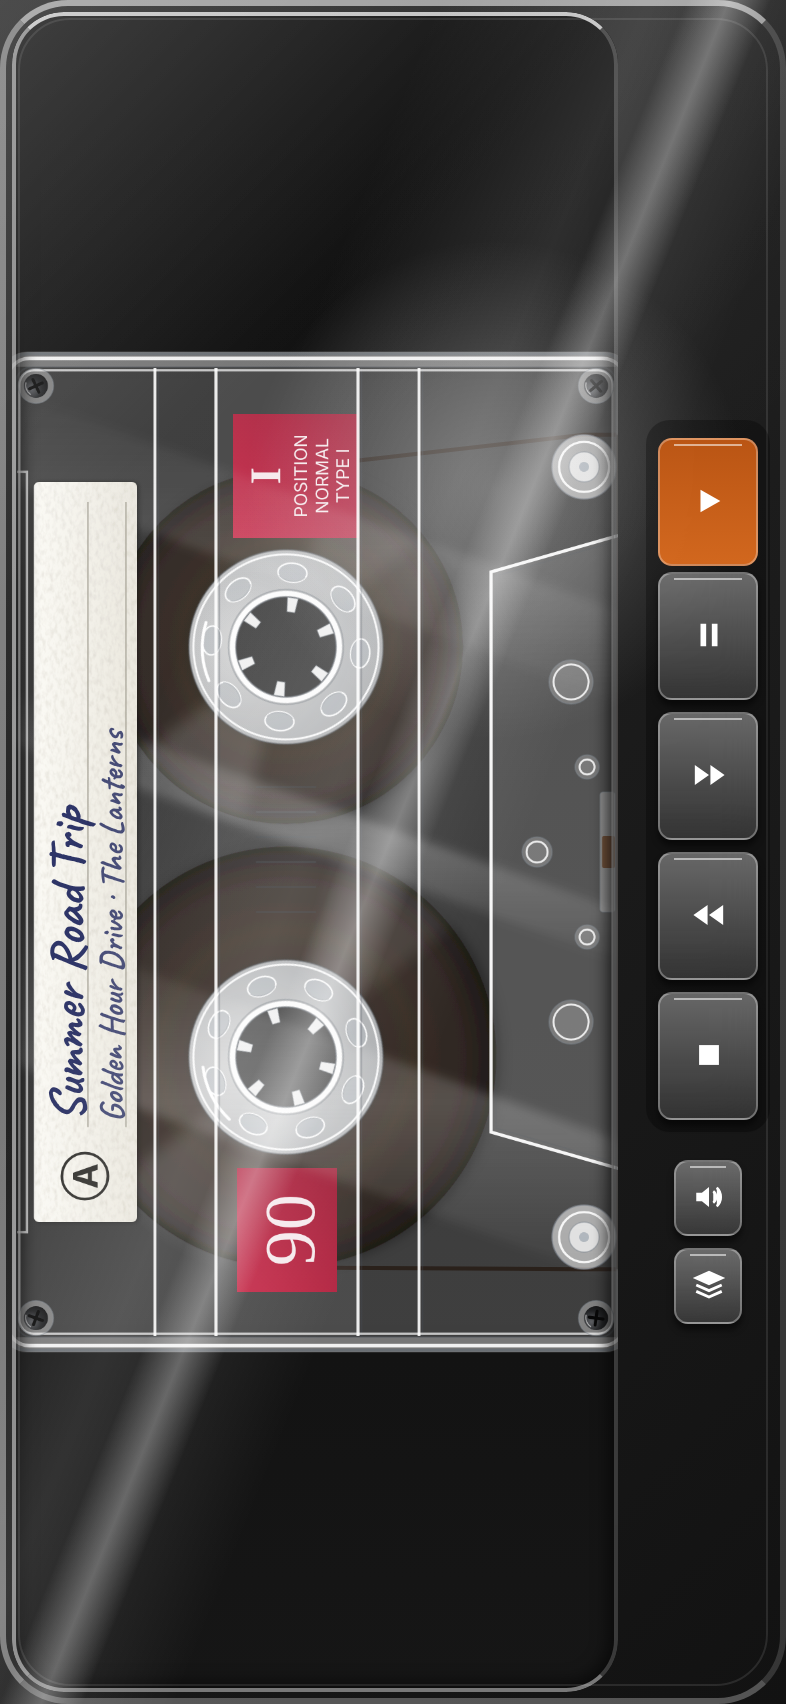
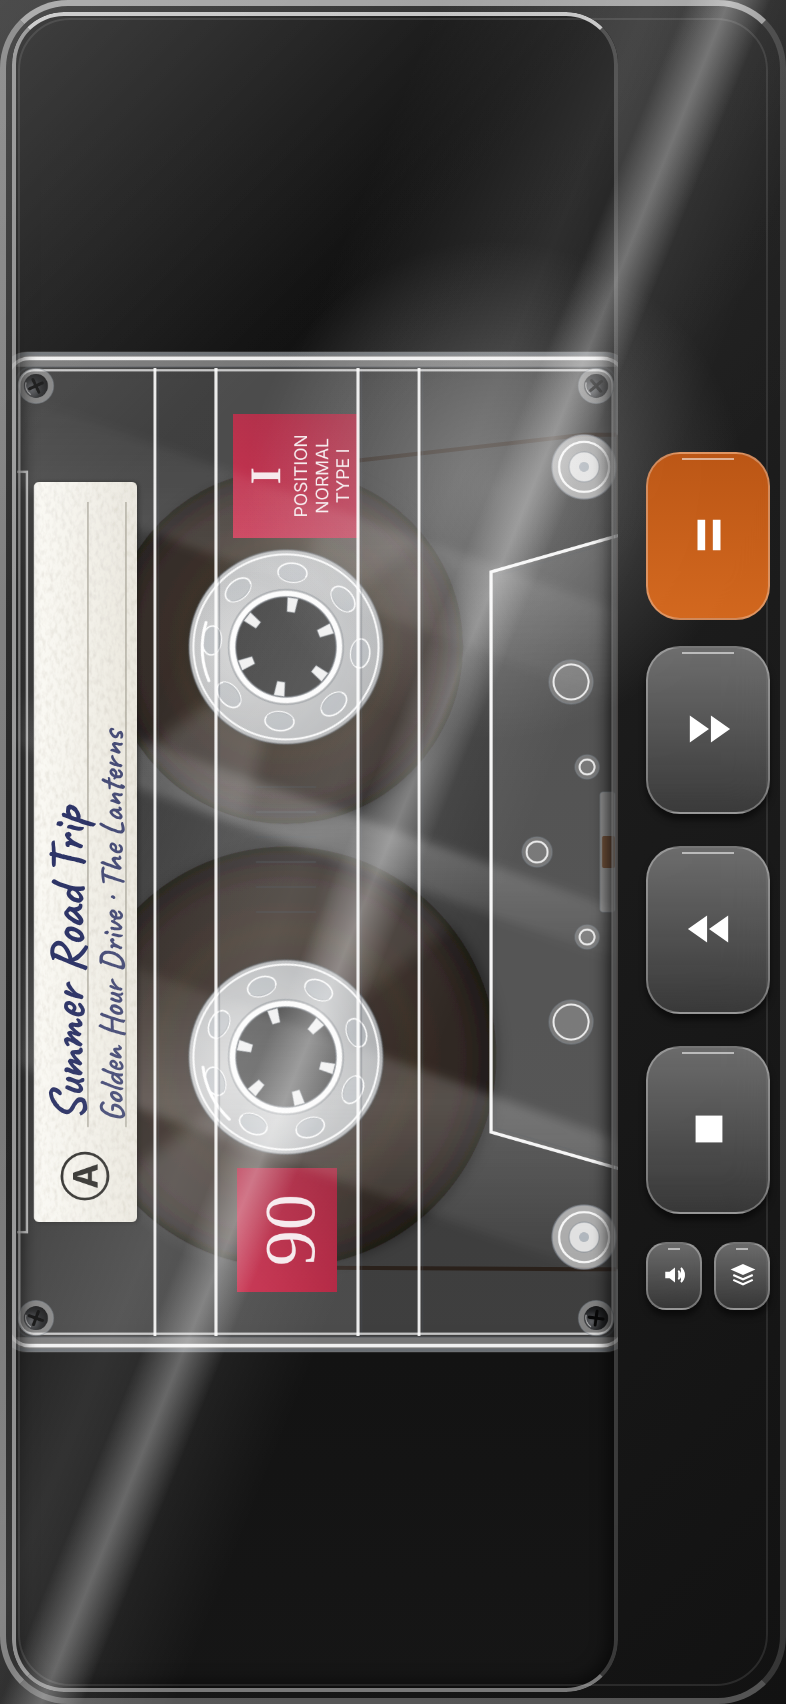
Use four large keys in the Duo's rail
Keys are 66 by 84 points, centred 48 points in from the edge, starting
180 points down, sized from a Duo screenshot. Play and pause share one
key; sound effects and the shelf are two small keys below.

Claude-Session: https://claude.ai/code/session_015CNmSEpanpmujmbPK8yXHv

Changed region(s): [[0.8244, 0.2488, 1.0, 0.7776]]

diff --git a/TapeDeck/DeckView.swift b/TapeDeck/DeckView.swift
@@ -16,13 +16,16 @@ struct DeckView: View {
 
     /// Width of the key column on phones that have no side rail.
     private let stripWidth: CGFloat = 78
-    /// The key column on the Duo is 48 points wide inside the 84 point rail:
-    /// 24 points from the screen edge and 12 from the content.
-    private let railKeyWidth: CGFloat = 48
-    private let railOuterMargin: CGFloat = 24
+    /// Keys in the Duo's rail are 66 points wide, centred 48 points in from
+    /// the screen edge like the system's own status pill, and up to 84 tall.
+    private let railKeyWidth: CGFloat = 66
+    private let railOuterMargin: CGFloat = 15
+    private let bigKeyHeight: CGFloat = 84
+    private let keyGap: CGFloat = 16
     /// Height kept clear at the top of the rail for the camera, clock and
-    /// status icons. Not a published figure: tune it on a real Duo.
-    private let railStatusHeight: CGFloat = 176
+    /// status icons. Measured from a Duo screenshot, where the status pill
+    /// ends about 154 points down; not a published figure.
+    private let railStatusHeight: CGFloat = 180
 
     var body: some View {
         GeometryReader { geo in
@@ -155,73 +158,63 @@ struct DeckView: View {
 
     // MARK: Keys
 
-    /// The five transport keys, then the two small ones: sound effects and
-    /// the tape shelf.
-    private func keys(height: CGFloat, bare: Bool) -> some View {
+    /// Four big transport keys (play and pause share one), then two small
+    /// ones side by side: sound effects and the tape shelf.
+    private func keys(height: CGFloat) -> some View {
         VStack(spacing: 14) {
-            TransportKeys(vertical: true, keyHeight: height, bare: bare, onEject: openShelf)
-            VStack(spacing: 6) {
+            TransportKeys(vertical: true, keyHeight: height, bare: true, big: true,
+                          spacing: keyGap, onEject: openShelf)
+            HStack(spacing: 6) {
                 TapeKey(symbol: model.soundEffectsOn ? "speaker.wave.2.fill" : "speaker.slash.fill",
                         label: model.soundEffectsOn ? "Tape sound effects on" : "Tape sound effects off",
-                        height: smallKeyHeight, showsLabel: false,
+                        height: smallKeyHeight, showsLabel: false, corner: 10, symbolSize: 13,
                         onDown: {
                             Haptics.keyDown()
                             model.soundEffectsOn.toggle()
                         })
                 TapeKey(symbol: "square.stack.3d.up.fill", label: "Tape shelf",
-                        height: smallKeyHeight, showsLabel: false,
+                        height: smallKeyHeight, showsLabel: false, corner: 10, symbolSize: 13,
                         onDown: {
                             Haptics.keyDown()
                             openShelf()
                         })
             }
-            .padding(.horizontal, bare ? 0 : 6)
         }
     }
 
-    private let smallKeyHeight: CGFloat = 38
-    /// Room the two small keys and the gaps around them take in the column.
-    private var smallKeysRoom: CGFloat { 14 + 2 * smallKeyHeight + 6 }
+    private let smallKeyHeight: CGFloat = 34
+    /// Room the small keys and the gap above them take in the column.
+    private var smallKeysRoom: CGFloat { 14 + smallKeyHeight }
 
+    private func keyHeight(room: CGFloat) -> CGFloat {
+        min(bigKeyHeight, max(40, (room - smallKeysRoom - 3 * keyGap) / 4))
+    }
 
-    /// The column of keys. In the Duo's rail it is a slim smoked bar that
-    /// starts below the camera and clock; elsewhere it is a frosted strip.
+    /// The column of keys. In the Duo's rail it starts below the camera and
+    /// clock; on other phones it is a strip inside the safe area.
     @ViewBuilder
     private func keyColumn(insets: EdgeInsets, rail: Bool, leading: Bool) -> some View {
         if rail {
             let width = max(insets.leading, insets.trailing)
             let inner = max(0, width - railKeyWidth - railOuterMargin)
             GeometryReader { geo in
-                let room = geo.size.height - railStatusHeight - insets.bottom - 12 - smallKeysRoom
-                let keyHeight = min(64, max(30, (room - 4 * 6) / 5))
+                let room = geo.size.height - railStatusHeight - insets.bottom - 12
                 VStack(spacing: 0) {
                     Color.clear.frame(height: railStatusHeight)
-                    keys(height: keyHeight, bare: true)
+                    keys(height: keyHeight(room: room))
                     Spacer(minLength: 0)
                 }
                 .frame(width: railKeyWidth)
-                // Smoked bar behind the camera, the clock and the keys
-                .background(
-                    RoundedRectangle(cornerRadius: 22)
-                        .fill(Color.black.opacity(0.55))
-                        .background(.ultraThinMaterial, in: RoundedRectangle(cornerRadius: 22))
-                        .overlay(RoundedRectangle(cornerRadius: 22)
-                            .strokeBorder(Color.white.opacity(0.18), lineWidth: 1))
-                        .padding(.horizontal, -6)
-                        .padding(.top, 8)
-                        .padding(.bottom, insets.bottom + 4)
-                )
                 .padding(.leading, leading ? railOuterMargin : inner)
                 .padding(.trailing, leading ? inner : railOuterMargin)
             }
             .frame(width: width)
         } else {
             GeometryReader { geo in
-                let room = geo.size.height - insets.top - insets.bottom - 24 - 12 - smallKeysRoom
-                let keyHeight = min(64, max(30, (room - 4 * 6) / 5))
+                let room = geo.size.height - insets.top - insets.bottom - 24
                 VStack(spacing: 0) {
                     Spacer(minLength: 0)
-                    keys(height: keyHeight, bare: false)
+                    keys(height: keyHeight(room: room))
                     Spacer(minLength: 0)
                 }
                 .padding(.top, insets.top + 12)
@@ -243,25 +236,41 @@ struct TransportKeys: View {
     var keyHeight: CGFloat = 62
     /// Without the tray behind the keys, for places that supply their own.
     var bare = false
+    /// Four large rounded keys, with play and pause sharing one.
+    var big = false
+    var spacing: CGFloat = 6
     var onEject: () -> Void = {}
 
     var body: some View {
-        let layout = vertical ? AnyLayout(VStackLayout(spacing: 6)) : AnyLayout(HStackLayout(spacing: 6))
+        let layout = vertical ? AnyLayout(VStackLayout(spacing: spacing)) : AnyLayout(HStackLayout(spacing: spacing))
+        let corner: CGFloat = big ? 17 : 7
+        let symbol: CGFloat = big ? 23 : 17
+        let labels = !vertical && !big
         layout {
-            TapeKey(symbol: "play.fill", label: "PLAY", accent: true, latched: model.motion == .playing,
-                    height: keyHeight, showsLabel: !vertical, onDown: { model.playKey() })
-            TapeKey(symbol: "pause.fill", label: "PAUSE", latched: model.motion == .paused,
-                    height: keyHeight, showsLabel: !vertical, onDown: { model.pauseKey() })
+            if big {
+                // Down and lit while the tape plays; press again to pause.
+                TapeKey(symbol: model.motion == .playing ? "pause.fill" : "play.fill",
+                        label: model.motion == .playing ? "Pause" : "Play",
+                        accent: true, latched: model.motion == .playing,
+                        height: keyHeight, showsLabel: false, corner: corner, symbolSize: symbol,
+                        onDown: { model.playPauseKey() })
+            } else {
+                TapeKey(symbol: "play.fill", label: "PLAY", accent: true, latched: model.motion == .playing,
+                        height: keyHeight, showsLabel: labels, onDown: { model.playKey() })
+                TapeKey(symbol: "pause.fill", label: "PAUSE", latched: model.motion == .paused,
+                        height: keyHeight, showsLabel: labels, onDown: { model.pauseKey() })
+            }
             TapeKey(symbol: "forward.fill", label: "FF", latched: model.motion == .fastForward,
-                    height: keyHeight, showsLabel: !vertical,
+                    height: keyHeight, showsLabel: labels, corner: corner, symbolSize: symbol,
                     onDown: { model.seekKeyDown(forward: true) },
                     onUp: { model.seekKeyUp(forward: true) })
             TapeKey(symbol: "backward.fill", label: "REW", latched: model.motion == .rewind,
-                    height: keyHeight, showsLabel: !vertical,
+                    height: keyHeight, showsLabel: labels, corner: corner, symbolSize: symbol,
                     onDown: { model.seekKeyDown(forward: false) },
                     onUp: { model.seekKeyUp(forward: false) })
             TapeKey(symbol: "eject.fill", label: "STOP/EJECT",
-                    height: keyHeight, showsLabel: !vertical, onDown: { if model.stopKey() { onEject() } })
+                    height: keyHeight, showsLabel: labels, corner: corner, symbolSize: symbol,
+                    onDown: { if model.stopKey() { onEject() } })
         }
         .padding(bare ? 0 : 6)
         .background(RoundedRectangle(cornerRadius: 12).fill(Color.black.opacity(bare ? 0 : 0.28)))
@@ -282,6 +291,8 @@ struct TapeKey: View {
     var latched = false
     var height: CGFloat = 62
     var showsLabel = true
+    var corner: CGFloat = 7
+    var symbolSize: CGFloat = 17
     var onDown: () -> Void = {}
     var onUp: () -> Void = {}
 
@@ -290,7 +301,7 @@ struct TapeKey: View {
     var body: some View {
         let down = pressed || latched
         VStack(spacing: 4) {
-            Image(systemName: symbol).font(.system(size: 17, weight: .bold))
+            Image(systemName: symbol).font(.system(size: symbolSize, weight: .bold))
             if showsLabel, height >= 50 {
                 Text(label).font(.system(size: 7, weight: .heavy)).lineLimit(1).minimumScaleFactor(0.6)
             }
@@ -300,17 +311,17 @@ struct TapeKey: View {
         .frame(maxWidth: .infinity)
         .frame(height: height)
         .background(
-            RoundedRectangle(cornerRadius: 7)
+            RoundedRectangle(cornerRadius: corner)
                 .fill(LinearGradient(colors: keyColors(down: down), startPoint: .top, endPoint: .bottom))
         )
-        .background(.ultraThinMaterial, in: RoundedRectangle(cornerRadius: 7))
-        .overlay(RoundedRectangle(cornerRadius: 7).strokeBorder(Color.white.opacity(0.30), lineWidth: 0.75))
+        .background(.ultraThinMaterial, in: RoundedRectangle(cornerRadius: corner))
+        .overlay(RoundedRectangle(cornerRadius: corner).strokeBorder(Color.white.opacity(0.30), lineWidth: 0.75))
         // Light catching the moulded top edge
         .overlay(alignment: .top) {
             Capsule()
                 .fill(Color.white.opacity(0.55))
                 .frame(height: 1)
-                .padding(.horizontal, 7)
+                .padding(.horizontal, corner)
                 .padding(.top, 2)
         }
         .offset(y: down ? 3 : 0)

diff --git a/TapeDeck/PlayerModel.swift b/TapeDeck/PlayerModel.swift
@@ -243,6 +243,15 @@ final class PlayerModel: ObservableObject {
         run { try await self.player.play() }
     }
 
+    /// One key for both: pauses while playing, plays otherwise.
+    func playPauseKey() {
+        if motion == .playing {
+            pauseKey()
+        } else {
+            playKey()
+        }
+    }
+
     func pauseKey() {
         pressFeedback()
         guard hasTape else { return }

diff --git a/README.md b/README.md
@@ -6,7 +6,7 @@ A cassette player for Apple Music. Your playlists and albums are tapes on a shel
 
 * Plays your Apple Music library and anything from the Apple Music catalogue (MusicKit).
 * Closed phone (or any ordinary phone screen): the whole screen is the body of a tape player in dark clear plastic, and the cassette sits inside it at full size. The compartment and its clear door take up the whole face; the rim of the body and the column of keys frame it. Glare on the body moves only when the phone moves: reflections slide as it tilts left and right, and a hot spot follows both tilts.
-* Built for the iPhone Duo's outer display, 466 x 678 points. iOS reserves an 84 point column down one side for the camera, clock and status icons; the five keys, and two small ones for sound effects and the tape shelf, sit in that column underneath them. On other phones the keys get their own strip. Volume is on the phone's own buttons.
+* Built for the iPhone Duo's outer display, 466 x 678 points. iOS reserves an 84 point column down one side for the camera, clock and status icons; four large keys (play/pause, fast forward, rewind, stop/eject) and two small ones for sound effects and the tape shelf sit in that column underneath them. On other phones the keys get their own strip. Volume is on the phone's own buttons.
 * Haptics: a firm tap when a key goes down, a lighter one when it springs back, a heavy thud for the cassette door, and a soft pulse four times a second while the tape winds.
 * The cassette is a clear one. The shell front is see-through artwork (bright moulded edges and ridges, stickers, a stick-on paper label, guide rollers, black screws, reflections). Under it the whole reels, their clear hubs, the tape running down to the rollers and the handwriting on the label are drawn live. The artwork source is `tools/cassette-art.html`; `node tools/render-art.js` re-renders it.
 * Open phone (a large, wide screen): the tape shelf on the left and the chosen tape on the right. Pick a tape, then close the phone to start it playing. The keys are there too, for screens that cannot fold.
@@ -33,7 +33,7 @@ These came from developer write-ups, not from a device, so check them in Xcode's
 
 * Outer display: 466 x 678 points at 3x (Apple lists 1398 x 2034 pixels, 5.4 inches).
 * Outer safe area: 84 points on the side with the camera, 34 at the bottom, none at the top. The app reads these from the system, so it follows whatever the device reports.
-* Key column: 48 points wide, 24 from the screen edge. `railStatusHeight` in `DeckView.swift` (176 points) is how far down the keys start, to clear the camera and clock. That figure is an estimate.
+* Key column: keys 66 points wide and up to 84 tall, centred 48 points in from the screen edge. `railStatusHeight` in `DeckView.swift` (180 points) is how far down the keys start, to clear the camera and clock. It was measured from a screenshot of another app on a Duo, where the status pill ends about 154 points down.
 * Inner display: reported as 669 x 951 or 626 x 890 points, regular in both size classes. The app treats either as open.
 
 ## Layout of the code
